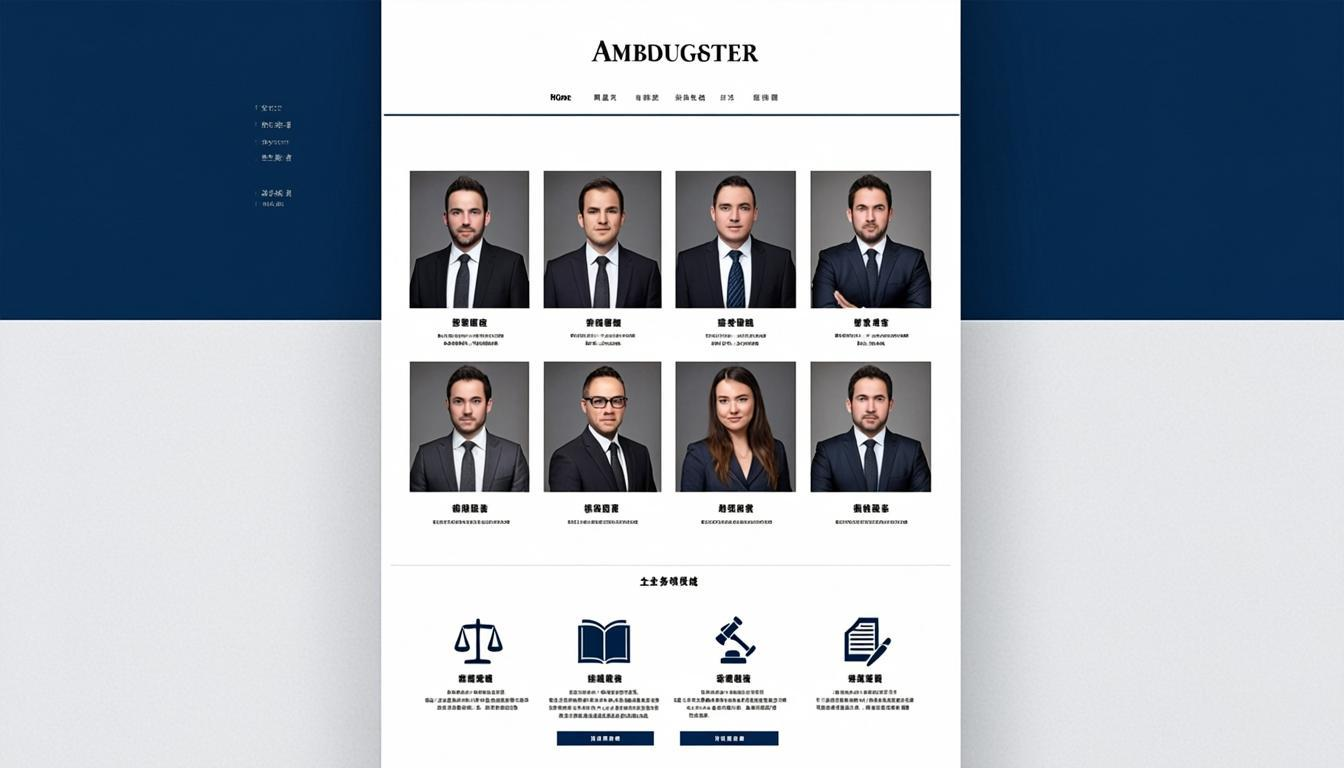
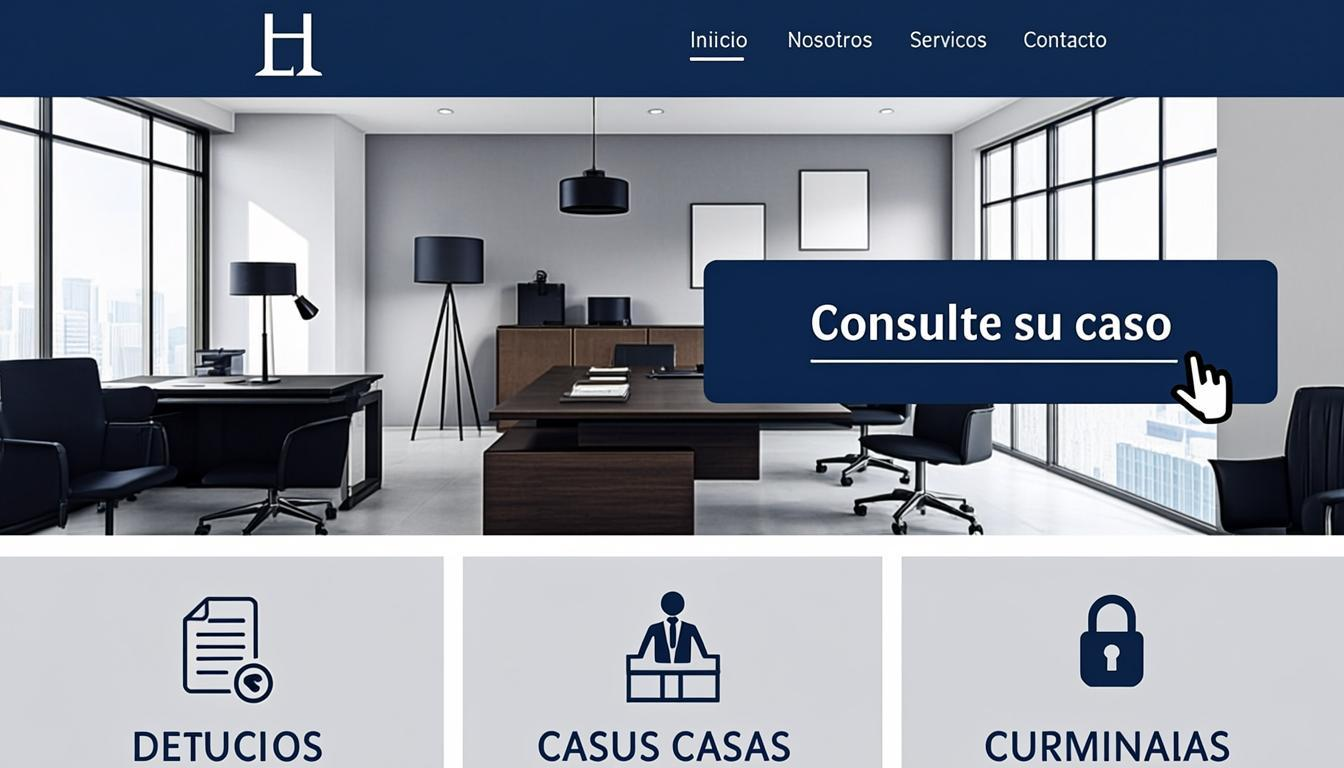
chore(demos): nombres + imágenes más realistas
Nombres más argentinos y plausibles (sin inventar marcas raras):
- 'El Quincho de Florencia' → 'Parrilla La Esquina'
- 'Estudio Mendez & Asociados' → 'Estudio Fernández & Romero'
- 'Cabañas Los Pinos' → 'Cabañas del Lago'

Imágenes regeneradas con prompts más específicos:
- Antes: 'mockup artístico' (se veían ilustradas)
- Ahora: 'browser screenshot of website UI' (parecen capturas reales)
- Detalles: barra de navegación visible con items en español,
  botón de CTA en color distintivo, grid de cards/secciones debajo
  del hero, captura fotorealista no ilustración

diff --git a/src/components/sections/projects.tsx b/src/components/sections/projects.tsx
@@ -50,12 +50,12 @@ function Projects() {
       status: "En producción",
     },
     {
-      title: "El Quincho de Florencia",
+      title: "Parrilla La Esquina",
       subtitle: "Restaurant — Demo de portfolio",
       description:
-        "Demo de sitio web para restaurant con sistema de reservas online, menú digital con fotos por plato, botón flotante de WhatsApp para pedidos y sección de reseñas reales de Google. Diseño mobile-first, optimizado para turistas que buscan dónde comer desde el celular.",
+        "Demo de sitio web para parrilla argentina con sistema de reservas online, menú digital con fotos por plato y precios en pesos, botón flotante de WhatsApp para pedidos y sección de reseñas reales de Google. Diseño mobile-first, optimizado para turistas que buscan dónde comer desde el celular.",
       image: "/demo-restaurant.png",
-      url: "https://wa.me/5493517656918?text=Hola%20Gonzalo%2C%20vi%20el%20demo%20de%20restaurant%20y%20quiero%20algo%20parecido",
+      url: "https://wa.me/5493517656918?text=Hola%20Gonzalo%2C%20vi%20el%20demo%20de%20parrilla%20y%20quiero%20algo%20parecido",
       tags: ["Restaurant", "Reservas Online", "Menú Digital", "WhatsApp"],
       tech: ["Next.js", "React", "Tailwind CSS", "Google Maps API"],
       metrics: [
@@ -66,10 +66,10 @@ function Projects() {
       status: "Demo",
     },
     {
-      title: "Estudio Mendez & Asociados",
+      title: "Estudio Fernández & Romero",
       subtitle: "Estudio jurídico — Demo de portfolio",
       description:
-        "Demo de sitio web para estudio jurídico con páginas dedicadas por área de práctica (laboral, civil, penal, comercial), sistema de consultas por WhatsApp con mensaje pre-armado, sección de equipo con matrículas profesionales y blog jurídico con preguntas frecuentes. SEO optimizado para captar búsquedas comerciales.",
+        "Demo de sitio web para estudio jurídico con páginas dedicadas por área de práctica (laboral, civil, penal, comercial, familia, sucesiones), sistema de consultas por WhatsApp con mensaje pre-armado por área, sección de equipo con matrículas profesionales y blog jurídico con preguntas frecuentes. SEO optimizado para captar búsquedas comerciales.",
       image: "/demo-abogados.png",
       url: "https://wa.me/5493517656918?text=Hola%20Gonzalo%2C%20vi%20el%20demo%20de%20estudio%20jurídico%20y%20quiero%20algo%20parecido",
       tags: ["Estudio Jurídico", "Multi-área", "Consultas Online", "SEO Local"],
@@ -82,10 +82,10 @@ function Projects() {
       status: "Demo",
     },
     {
-      title: "Cabañas Los Pinos",
+      title: "Cabañas del Lago",
       subtitle: "Cabañas turísticas — Demo de portfolio",
       description:
-        "Demo de sitio web para cabañas en Valle de Punilla con widget de reservas, galería de fotos de cada cabaña, tarifas dinámicas por temporada, integración con WhatsApp para consultas y sección de actividades turísticas de la zona. Pensado para aparecer en búsquedas tipo \"cabañas en Villa Carlos Paz\".",
+        "Demo de sitio web para complejo de cabañas en Valle de Punilla con widget de reservas, galería de fotos de cada cabaña, tarifas dinámicas por temporada, integración con WhatsApp para consultas y sección de actividades turísticas de la zona. Pensado para aparecer en búsquedas tipo \"cabañas en Villa Carlos Paz\".",
       image: "/demo-cabanas.png",
       url: "https://wa.me/5493517656918?text=Hola%20Gonzalo%2C%20vi%20el%20demo%20de%20cabañas%20y%20quiero%20algo%20parecido",
       tags: ["Turismo", "Cabañas", "Reservas", "Galería"],
